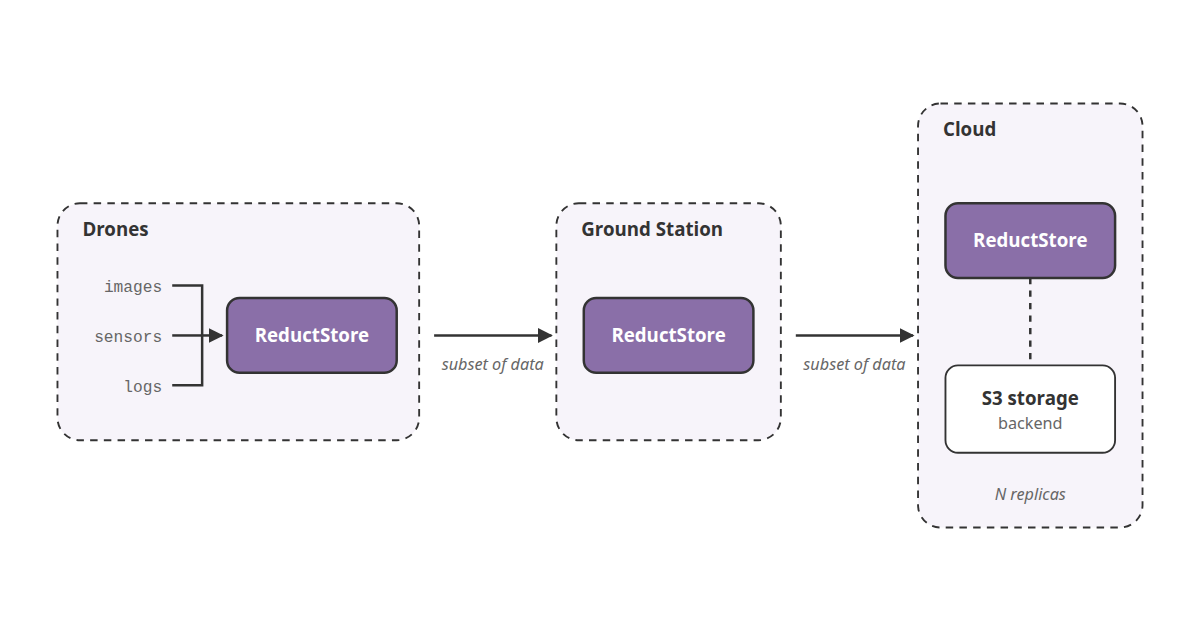
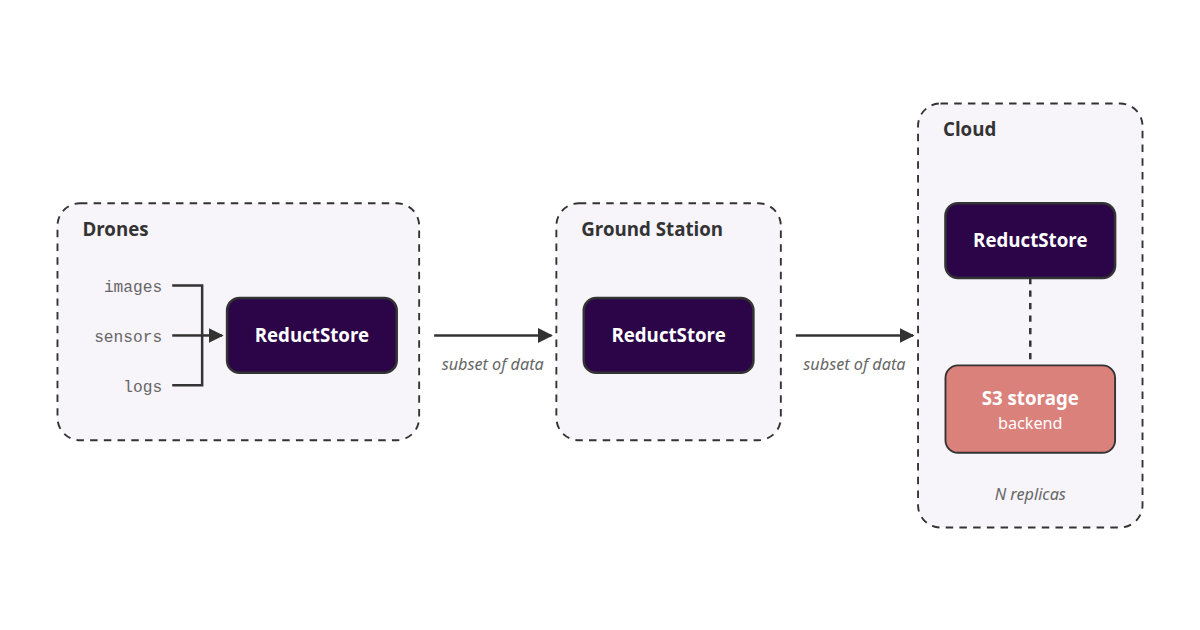
Use strong purple for ReductStore boxes and coral for backends
Standalone ReductStore boxes return to the base purple; ReductStore
containers become white with a purple outline so contents and arrows stay
visible. Storage backends and ReductBridge use the coral accent.

diff --git a/scripts/diagrams/blogkit.py b/scripts/diagrams/blogkit.py
@@ -29,7 +29,9 @@ STYLE = """<defs>
     <style>
       :root {
         --card-bg: #FFFFFF;
-        --card-brand: #8A6FA8;
+        --card-brand: #2B0548;
+        --brand-line: #2B0548;
+        --card-accent: #DB817B;
         --card-stroke: #333333;
         --text-main: #333333;
         --text-muted: #666666;
@@ -52,6 +54,7 @@ STYLE = """<defs>
           --text-muted: #A0A0A0;
           --line: #EFEFEF;
           --zone: #262129;
+          --brand-line: #BFA6DC;
         }
       }
 
@@ -65,6 +68,8 @@ STYLE = """<defs>
 
       .card-standard { fill: var(--card-bg); stroke: var(--card-stroke); stroke-width: 2; }
       .card-brand { fill: var(--card-brand); stroke: var(--card-stroke); stroke-width: 2; }
+      .card-brand-frame { fill: var(--card-bg); stroke: var(--brand-line); stroke-width: 2; }
+      .card-accent { fill: var(--card-accent); stroke: var(--card-stroke); stroke-width: 1.5; }
       .card-plain { fill: var(--card-bg); stroke: var(--card-stroke); stroke-width: 1.5; }
       .zone { fill: var(--zone); stroke: var(--card-stroke); stroke-width: 1.5; stroke-dasharray: 6 5; }
       .hatch { fill: url(#hatch); stroke: var(--card-stroke); stroke-width: 1.5; }
@@ -78,6 +83,8 @@ STYLE = """<defs>
       .text-zone { font-weight: 700; font-size: 15px; fill: var(--text-main); }
       .text-title { font-weight: 600; font-size: 18px; fill: var(--text-main); }
       .text-title-inverse { font-weight: 600; font-size: 18px; fill: var(--text-inverse); }
+      .text-title-brand { font-weight: 700; font-size: 18px; fill: var(--brand-line); }
+      .text-item-brand { font-weight: 700; font-size: 15px; fill: var(--brand-line); }
       .text-item { font-weight: 600; font-size: 15px; fill: var(--text-main); }
       .text-item-inverse { font-weight: 600; font-size: 15px; fill: var(--text-inverse); }
       .text-subtitle { font-size: 14px; fill: var(--text-muted); }
@@ -143,10 +150,11 @@ class Diagram:
             f'<rect x="{_fmt(x)}" y="{_fmt(y)}" width="{_fmt(w)}" height="{_fmt(h)}" rx="{rx}" class="{cls}" />'
         )
 
-    def card(self, x, y, w, h, title, sub=None, brand=False, bullets=(), mono_sub=True):
-        """A titled box standing on its own. Brand cards are ReductStore."""
-        kind = "brand" if brand else "standard"
-        inv = "-inverse" if brand else ""
+    def card(self, x, y, w, h, title, sub=None, brand=False, accent=False, bullets=(), mono_sub=True):
+        """A titled box standing on its own. Brand cards are ReductStore;
+        accent cards are its storage backend or ReductBridge."""
+        kind = "brand" if brand else "accent" if accent else "standard"
+        inv = "-inverse" if brand or accent else ""
         self.rect(x, y, w, h, f"card-{kind}", 16)
         cx = x + w / 2
         if bullets:
@@ -160,14 +168,15 @@ class Diagram:
             self.text(cx, y + h / 2 + 6, title, f"text-title{inv}")
 
     def panel(self, x, y, w, h, title, sub=None, brand=False, anchor="middle"):
-        """A titled container for parts. A ReductStore panel is a purple box;
+        """A titled container for parts. A ReductStore panel is a white box
+        with a purple outline and title, so what is inside stays readable;
         any other panel is a dashed zone, like the place something runs."""
         tx = {"start": x + 20, "middle": x + w / 2, "end": x + w - 20}[anchor]
         if brand:
-            self.rect(x, y, w, h, "card-brand", 18)
-            self.text(tx, y + 32, title, "text-title-inverse", anchor)
+            self.rect(x, y, w, h, "card-brand-frame", 18)
+            self.text(tx, y + 32, title, "text-title-brand", anchor)
             if sub:
-                self.text(tx, y + 54, sub, "text-subtitle-inverse", anchor, mono=True)
+                self.text(tx, y + 54, sub, "text-subtitle", anchor, mono=True)
             return
         self.rect(x, y, w, h, "zone", 18, back=True)
         self.text(tx, y + 26, title, "text-zone", anchor)
@@ -192,10 +201,11 @@ class Diagram:
             self._grow(cx + dx - 3, cy - 3, cx + dx + 3, cy + 3)
             self.parts.append(f'<circle cx="{_fmt(cx + dx)}" cy="{_fmt(cy)}" r="3" class="dot" />')
 
-    def item(self, x, y, w, h, title, sub=None, brand=False, mono_sub=True):
+    def item(self, x, y, w, h, title, sub=None, brand=False, accent=False, mono_sub=True):
         """A smaller box inside a zone or a card, with a 15px label."""
-        inv = "-inverse" if brand else ""
-        self.rect(x, y, w, h, "card-brand" if brand else "card-plain", 10)
+        inv = "-inverse" if brand or accent else ""
+        kind = "card-brand" if brand else "card-accent" if accent else "card-plain"
+        self.rect(x, y, w, h, kind, 10)
         cx = x + w / 2
         if sub:
             self.text(cx, y + h / 2 - 3, title, f"text-item{inv}")

diff --git a/blog/2025-03-17-daq-manufacture-system/img/build.py b/blog/2025-03-17-daq-manufacture-system/img/build.py
@@ -16,13 +16,13 @@ CLOUD = "a"
 
 
 def bucket(d, x, y, w, h, label, rows=2, labels=None):
-    d.rect(x, y, w, h, "card-brand", 10)
+    d.rect(x, y, w, h, "card-brand-frame", 10)
     label_w = len(label) * 8.6 + 24
     row_h = (h - 16 - (rows - 1) * 6) / rows
     for r in range(rows):
         pattern = labels[r * 3 % len(labels):] + labels[: r * 3 % len(labels)] if labels else None
         d.records(x + 12, y + 8 + r * (row_h + 6), w - label_w - 24, row_h, labels=pattern)
-    d.text(x + w - 14, y + h / 2 + 5, label, "text-item-inverse", "end")
+    d.text(x + w - 14, y + h / 2 + 5, label, "text-item-brand", "end")
 
 
 def tiers():
@@ -35,7 +35,7 @@ def tiers():
 
     d.panel(left, 0, 610, 180, "Cloud Instance #1", anchor="start")
     bucket(d, left + 22, 52, 370, 104, "Bucket", labels=CLOUD)
-    d.card(left + 440, 64, 150, 80, "Cloud Storage", "object storage")
+    d.card(left + 440, 64, 150, 80, "Cloud Storage", "object storage", accent=True)
     d.arrow((left + 392, 104), (left + 436, 104))
 
     d.panel(left, 232, 610, 180, "Central Storage", anchor="start")
@@ -83,7 +83,7 @@ def edge_device():
         "Survives network outages",
     ]
     for i, text in enumerate(bullets):
-        d.text(434, 410 + i * 20, f"• {text}", "text-label-inverse", "start")
+        d.text(434, 410 + i * 20, f"• {text}", "text-label", "start")
     d.item(736, 200, 100, 166, "Replication")
     d.card(696, 0, 180, 70, "Central Storage", "factory tier")
     d.arrow((786, 200), (786, 74))

diff --git a/blog/2025-10-22-database-for-robotics/img/build.py b/blog/2025-10-22-database-for-robotics/img/build.py
@@ -15,7 +15,7 @@ def cloud_integration():
     d.panel(390, 0, 170, 160, "Blocks")
     for i in range(3):
         d.records(408, 48 + i * 34, 134, 24, count=5, gap=4, width=22)
-    d.card(610, 40, 120, 80, "S3")
+    d.card(610, 40, 120, 80, "S3", accent=True)
     for a, b in ((130, 176), (340, 386), (560, 606)):
         d.arrow((a, 80), (b, 80))
     return d
@@ -35,7 +35,7 @@ def bridge():
     d.zone(260, 0, 220, 220)
     d.item(280, 24, 180, 56, "ReductStore", brand=True)
     d.line((370, 80), (370, 136), dashed=True)
-    d.item(280, 136, 180, 60, "S3 storage", "backend", mono_sub=False)
+    d.item(280, 136, 180, 60, "S3 storage", "backend", accent=True, mono_sub=False)
     d.arrow((204, 48), (276, 48), both=True)
     d.text(240, 38, "SDKs", "text-note")
     d.arrow((260, 172), (204, 172))
@@ -46,7 +46,7 @@ def bridge():
         d.text(130, y + 5, topic, "text-label", "end", mono=True)
         d.line((138, y), (160, y), (160, 334))
     d.arrow((160, 334), (196, 334))
-    d.item(200, 306, 150, 56, "ReductBridge", brand=True)
+    d.item(200, 306, 150, 56, "ReductBridge", accent=True)
     d.arrow((350, 334), (396, 334))
     d.item(400, 306, 160, 56, "ReductStore", brand=True)
     d.arrow((560, 334), (620, 334), (620, 110), (484, 110))

diff --git a/blog/2026-09-29-h264-camera-stream-mp4/img/build.py b/blog/2026-09-29-h264-camera-stream-mp4/img/build.py
@@ -29,9 +29,9 @@ def flow():
     for i in range(5):
         gop(d, 264 + i * 54, 50, 44, 70)
     d.arrow((264, 138), (512, 138))
-    d.text(520, 142, "t", "text-label-inverse", "start", mono=True)
-    d.text(264, 174, "time-indexed records,", "text-label-inverse", "start")
-    d.text(264, 192, "capture time on each", "text-label-inverse", "start")
+    d.text(520, 142, "t", "text-label", "start", mono=True)
+    d.text(264, 174, "time-indexed records,", "text-label", "start")
+    d.text(264, 192, "capture time on each", "text-label", "start")
 
     d.zone(588, 0, 180, 214, "One query")
     d.item(606, 50, 144, 70, "MP4", "video/mp4")

diff --git a/blog/2026-02-24-air-gapped-drone-data/img/build.py b/blog/2026-02-24-air-gapped-drone-data/img/build.py
@@ -24,7 +24,7 @@ def architecture():
     d.panel(690, 30, 180, 340, "Cloud", anchor="start")
     d.item(712, 110, 136, 60, "ReductStore", brand=True)
     d.line((780, 170), (780, 240), dashed=True)
-    d.item(712, 240, 136, 70, "S3 storage", "backend", mono_sub=False)
+    d.item(712, 240, 136, 70, "S3 storage", "backend", accent=True, mono_sub=False)
     d.text(780, 348, "N replicas", "text-note")
 
     for a, b in ((290, 396), (580, 686)):

diff --git a/blog/2024-12-05-data-flow-with-vibration-data/img/build.py b/blog/2024-12-05-data-flow-with-vibration-data/img/build.py
@@ -30,7 +30,7 @@ def data_flow():
     d.item(280, 100, 170, 60, "Pre-processing")
     d.arrow((450, 130), (506, 130))
     d.panel(510, 0, 250, 262, "ReductStore record", brand=True)
-    record(d, 535, 72, "binary chunk", inverse=True)
+    record(d, 535, 72, "binary chunk")
     return d
 
 

diff --git a/.claude/skills/reductstore-diagrams/SKILL.md b/.claude/skills/reductstore-diagrams/SKILL.md
@@ -18,11 +18,17 @@ marker, sans labels, mono for technical tokens (entry names, protocols, labels,
 timestamps), and a `prefers-color-scheme: dark` palette. No icons, glyphs,
 gradients, colors other than the palette, or background rectangle.
 
-- **Purple means ReductStore.** Use `brand=True` for ReductStore components, or
-  for the one thing the figure is about (for example the records a replication
-  filter selects). If everything is purple, nothing is. The fill is the
-  lighter site purple `#8A6FA8`, not the logo's `#2B0548`, so arrows and
-  arrowheads that touch or cross a purple box stay visible.
+- **Purple means ReductStore.** A standalone ReductStore box (`brand=True` on
+  `card` or `item`) is the strong base purple `#2B0548` with white text. A
+  ReductStore container with parts inside (`panel(..., brand=True)`) is white
+  with a purple outline and title, so its contents and the arrows into them
+  stay visible. Purple can also mark the one thing the figure is about, such
+  as the records a replication filter selects. If everything is purple,
+  nothing is.
+- **Coral means what ReductStore stands on:** its storage backend (S3,
+  object storage) and ReductBridge, with `accent=True`.
+- Surroundings are dashed zones with one light fill (`zone()` or a non-brand
+  `panel()`), never solid boxes.
 - Group what runs in one place with `zone()` (dashed frame, label top left).
 - Draw at the size it is shown. The blog column is about 630 px wide, so keep
   the viewBox at most about 760 units wide (900 for a dense figure). A wider
